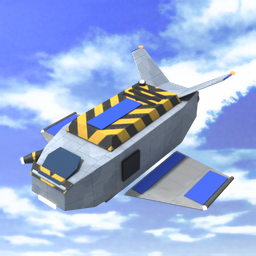
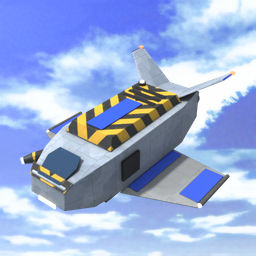
ARM_T1_AIR_Constructor: wings stay in the hull, preview matches the script
The picture showed the near wing off the hull. The script's travel left gaps of 0.67 (wing1) and 0.49 (wing2), and the preview still slid wing2 14.625 where the script slides 13.6, so its gap was 1.09 there. Travel is now 10.25 / 12.75 and wing2 is raised 0.7 to wing1's height: no gap at tolerance 0.3.

diff --git a/tools/s3okit/kit/units/ARM_T1_AIR_Constructor.py b/tools/s3okit/kit/units/ARM_T1_AIR_Constructor.py
@@ -5,7 +5,7 @@ under the belly and slide out sideways on take-off (COB move x), so the flying p
 The TA model's body is centred at x -4; the new body is centred at x 0 so it mirrors, and the two wings are built
 separately (wing1 extends 2.7 elmo inboard of its origin) so that both slide out to the same span either side
 (flight roots at +-8, tips at +-22).
-Pieces (TA layout): base, wing1 (+x side, slides +11.25), wing2 (-x side, slides -14.6), rearthrust (empty).
+Pieces (TA layout): base, wing1 (+x side, slides +10.25), wing2 (-x side, slides -12.75, raised 0.7), rearthrust (empty).
 Value groups from above: light Arm hull and wings, equipment deck in construction stripes (builder read), near-black
 vents, team on the tail fins, the deck spine, the wing roots and tips; yellow hazard on the nano projector.
 Coordinates are ENGINE/global: X right, Y up, Z forward. mirror=True builds the -X twin sharing UVs."""
@@ -14,7 +14,7 @@ import math
 UNIT = dict(
     res=1024,
     wreck=dict(seed=14, remove=['wing1']),
-    preview_pose={'wing1': {'move': (11.25, 0, 0)}, 'wing2': {'move': (-14.625, 0, 0)}},
+    preview_pose={'wing1': {'move': (10.25, 0, 0)}, 'wing2': {'move': (-12.75, 0.7, 0)}},
 )
 
 
